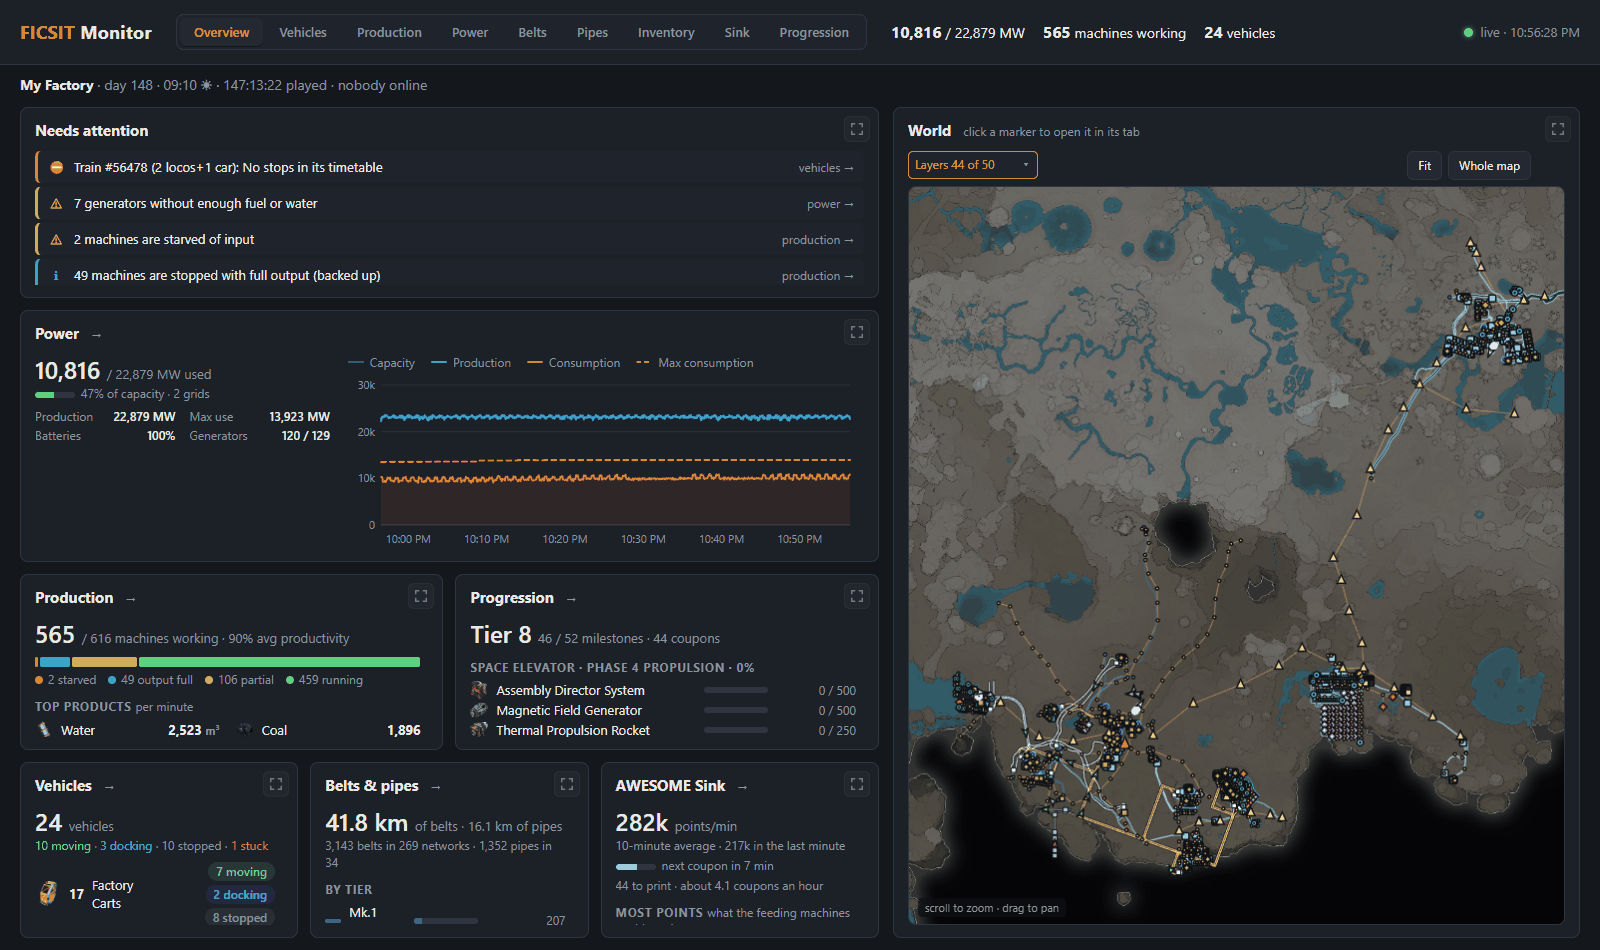
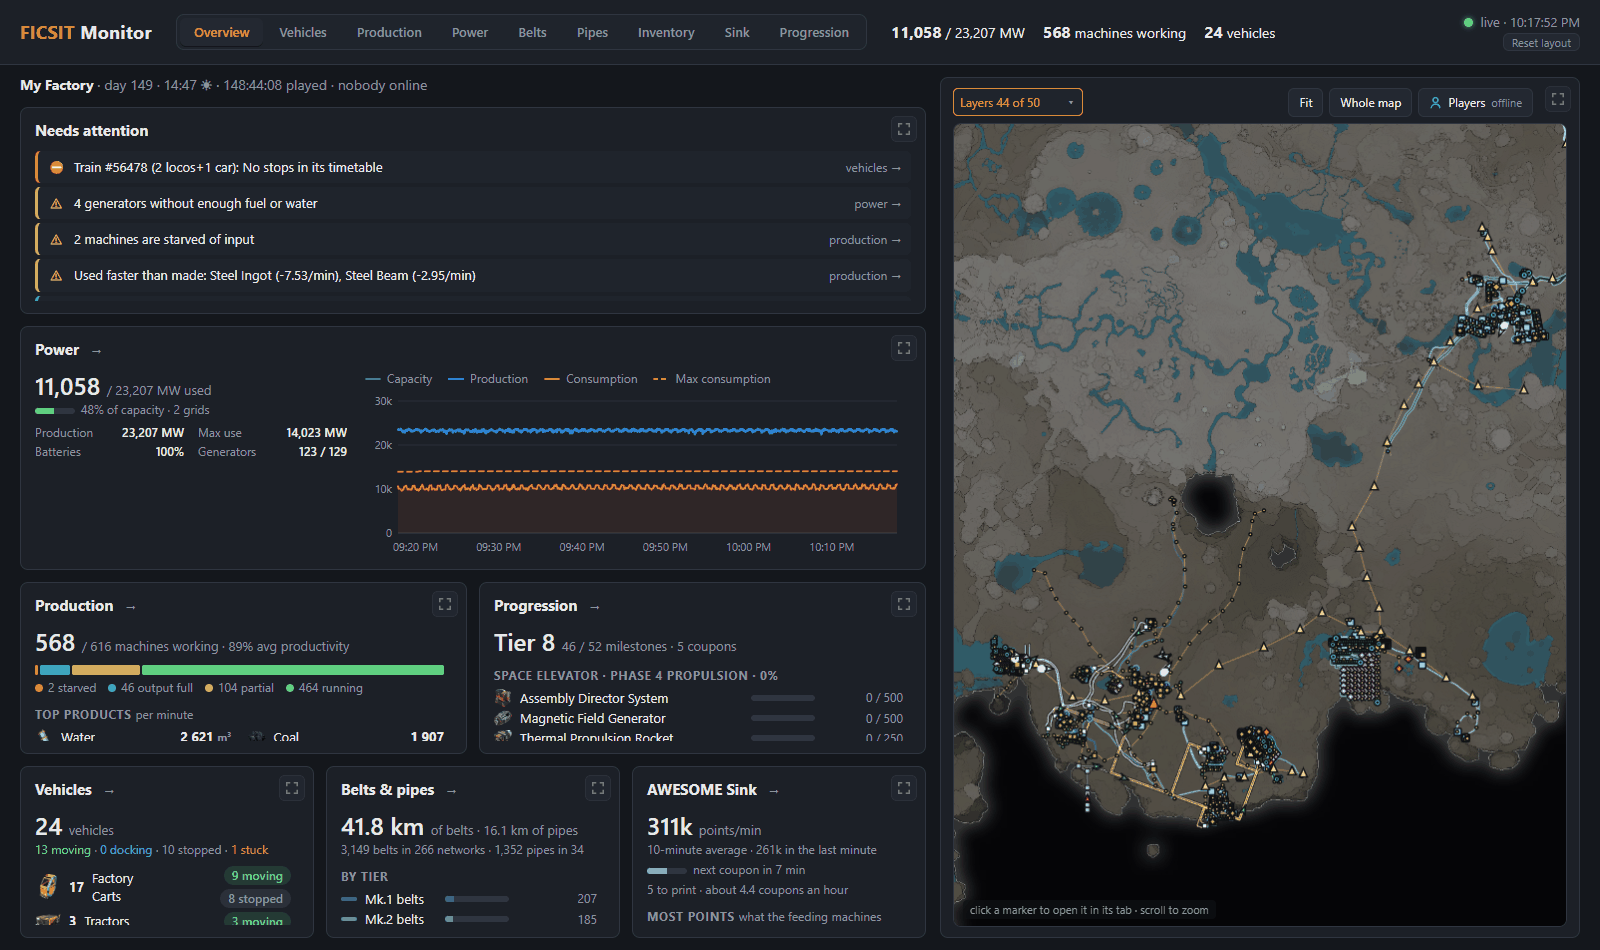
Reset layout button; README: new layout, resizable panels, Players button; new screenshots

diff --git a/index.html b/index.html
@@ -24,7 +24,10 @@
   h1 span { color: var(--accent); }
   .stats { display: flex; gap: 18px; flex-wrap: wrap; }
   .stat b { font-size: 16px; margin-right: 4px; }
-  .conn { margin-left: auto; display: flex; align-items: center; gap: 8px; color: var(--muted); font-size: 13px; }
+  .conn-box { margin-left: auto; display: flex; flex-direction: column; align-items: flex-end; gap: 2px; margin-block: -4px; }
+  button.b.reset-layout { font-size: 11px; line-height: 1; padding: 0 8px; height: 18px; color: var(--muted); }
+  button.b.reset-layout:hover { color: var(--text); }
+  .conn { display: flex; align-items: center; gap: 8px; color: var(--muted); font-size: 13px; }
   .dot { width: 9px; height: 9px; border-radius: 50%; background: var(--muted); }
   .dot.ok { background: var(--ok); box-shadow: 0 0 6px var(--ok); }
   .dot.bad { background: var(--bad); }
@@ -158,7 +161,7 @@
   button.layer.on i { opacity: 1; }
   button.layer .n { color: var(--muted); font-size: 11px; }
 
-  @media (max-width: 700px) { header, main { padding-left: 16px; padding-right: 16px; } .conn { margin-left: 0; } }
+  @media (max-width: 700px) { header, main { padding-left: 16px; padding-right: 16px; } .conn-box { margin-left: 0; align-items: flex-start; } }
 
   /* ---- tabs ---- */
   nav.tabs { display: flex; gap: 2px; background: var(--panel-3); border: 1px solid var(--line); border-radius: 8px; padding: 3px; }
@@ -613,7 +616,10 @@
   <div class="stats" id="statsPipes" data-for="pipes" hidden></div>
   <div class="stats" id="statsInv" data-for="inventory" hidden></div>
   <div class="stats" id="statsSink" data-for="sink" hidden></div>
-  <div class="conn"><span class="dot" id="dot"></span><span id="conn">connecting…</span></div>
+  <div class="conn-box">
+    <div class="conn"><span class="dot" id="dot"></span><span id="conn">connecting…</span></div>
+    <button class="b reset-layout" id="resetLayout" type="button" title="Put every panel and the map back to their default sizes, on every tab">Reset layout</button>
+  </div>
 </header>
 
 <div class="banner" id="banner"></div>

diff --git a/js/resize.js b/js/resize.js
@@ -166,5 +166,14 @@ const Resize = (() => {
     for (const p of parts(c)) { p.style.flex = ""; p.classList.remove("rs-min"); }
   });
 
-  return { scan };
+  // the header's "Reset layout" button: every tab's panels and the map back to their default sizes
+  function reset() {
+    store = {}; save();
+    try { localStorage.removeItem(MAPKEY); } catch {}
+    applyMapW();
+    for (const c of document.querySelectorAll("[data-rs]")) for (const p of parts(c)) { p.style.flex = ""; p.classList.remove("rs-min"); }
+  }
+  document.getElementById("resetLayout")?.addEventListener("click", reset);
+
+  return { scan, reset };
 })();

diff --git a/README.md b/README.md
@@ -6,6 +6,8 @@ A live web dashboard for a Satisfactory world: how the factory is doing at a gla
 
 ## Maps
 
+On a desktop every tab's map sits in the same place on the right, at the same size, and changing tabs keeps the same spot and zoom, so the map doesn't move or flash when you switch. The **Players** button beside Whole map centres on a player; click again for the next one (online players first, then A–Z; right-click goes back).
+
 Every tab's map shares the same parts: a Layers dropdown with **everything** — factory buildings, vehicles and their paths, stations, the power network, belts, pipes, storage, resource nodes, collectibles, hypertubes (tubes, entrances and the open ends rides launch from, with their angle) and players. Each tab starts with only what it's about switched on, plus players (the Overview starts with everything except resource nodes and collectibles); switch anything else on from the menu, and the page only fetches what's switched on. Right-click a map to open the same spot in another tab's map, and hover anything for a detailed popup. Machines, generators, vehicles, stations, storage, belts and pipes, power poles and switches, players, resource nodes and collectibles all show a title, a status badge and labelled rows: what it's doing, rates, contents, its power grid, height and position. Extractors also show what they took out over the last 10 minutes and hour, the most they can at their clock speed, what's unused, and the node's purity. Anything with a problem says why in one line under its title, with numbers: a machine that's "Starved: Coal −25/min (56%)" or has its "Output full", a generator with no fuel (and how much it burns), a train that can't reach its next station (on a different track, or check signals), a fuse that tripped (what the grid wants vs makes), full storage, a pump past its head lift, batteries draining.
 
 ![Hover popup](docs/screenshots/hover.png)
@@ -14,7 +16,7 @@ Every tab's map shares the same parts: a Layers dropdown with **everything** —
 
 ### Overview (home)
 - **Needs attention**: an overloaded grid or tripped fuse, max consumption over capacity, generators out of fuel or water, starved machines, items used faster than they're made, stuck vehicles (derailed, station unreachable, …), unconnected belt/pipe ends, AWESOME Sinks without power, milestones ready to unlock, coupons to spend. Each links to the tab that explains it.
-- **Summary cards**: power across the top (key figures and the four-line power chart), then production (status mix, top products, shortfalls), progression (Space Elevator and HUB parts), vehicles (per type, stuck ones by name), belts & pipes (totals by tier, head lift problems) and the AWESOME Sink (points per minute, time to the next coupon, the items earning the most).
+- **Summary cards** in rows: power (key figures and the four-line power chart); production (status mix, top products, shortfalls) and progression (Space Elevator and HUB parts); vehicles (per type, stuck ones by name), belts & pipes (totals by tier, head lift problems) and the AWESOME Sink (points per minute, time to the next coupon, the items earning the most).
 - **World map** of machines, generators, vehicles, players, the HUB, the Space Elevator, AWESOME Sinks, every belt and pipe, the power network (lines, poles, wall outlets, towers, switches, power storage), every storage container, fluid buffer and Dimensional Depot uploader, hypertubes, roads, rail, drone routes and truck / train stations, with a categorized Layers dropdown.
 
 ### Vehicles
@@ -26,6 +28,7 @@ Every tab's map shares the same parts: a Layers dropdown with **everything** —
 ![Production](docs/screenshots/production.png)
 - **Items**: producing, consuming and net per minute for every item (generators' fuel and water included), capacity and how much of it is in use. Click an item to see its history and highlight the machines that make (blue) and use (orange) it, in the table and on the map.
 - **Machines**: status (running, partial, starved, output full, paused, no power), productivity, input and output, clock speed, power shards, Somersloops and power draw. A filter under the columns (building, recipe, status, productivity, inputs, outputs, clock); click a row to find the machine on the map.
+- **Item details** under the two tables: the picked item's history, the machines that make and use it, and its recipes (a one-line strip until you pick an item).
 - The summary tiles are shortcuts: click "5 starved" to see those five.
 
 ### Power
@@ -35,7 +38,8 @@ Every tab's map shares the same parts: a Layers dropdown with **everything** —
 - **Power & batteries**: the power graph with a stored-charge graph (MWh) under it on the same time axis, beside a battery readout like the in-game Power Storage panel: charge gauge and %, time until full (or empty while draining), stored charge (e.g. 3,300 / 3,300 MWh) and charge rate.
 - **Generators & switches** in one table, with a filter under every column: each generator's output, fuel and water; each power switch's state, priority group (Undefined turns off first, then 8 … 1), what it's fed from and what it controls. Hover a switch to see its two sides on the map (supply blue, controlled orange).
 - **Grid layout**: each grid's sections, following the switches out from the generators.
-- Generation by generator type and consumption by building type, beside a map of the power network: lines, poles, wall outlets, towers, switches and power storage, with the selected grid bright and the rest faded.
+- Generation by generator type and consumption by building type, beside the grid layout.
+- A map of the power network: lines, poles, wall outlets, towers, switches and power storage, with the selected grid bright and the rest faded.
 
 ### Belts
 ![Belts](docs/screenshots/belts.png)
@@ -43,7 +47,7 @@ Every tab's map shares the same parts: a Layers dropdown with **everything** —
 - Totals: belts, lifts, splitters and mergers, unconnected ends, slots used across containers, depot items at their limit, and full storage (click those to list them).
 - **Belt networks table**: what each network feeds (production, power), the buildings it connects (storage included), its length, pieces, lifts, tier mix and bottleneck (the slowest tier, lifts included), and open ends. **Storage table**: type, contents, slots used, amount stored and the belts into it.
 - The two are **linked**: click a network (in the table or on the map) and the storage it reaches is pinned to the top of the Storage table and ringed on the map; click a storage and the belts into it are pinned and drawn on the map. Every column of both tables has a filter, and the map follows them.
-- Under the map: belt and lift pieces by tier, and every **Dimensional Depot** item against its limit (an uploader counts as full only when the depot can't take any more of its item).
+- Under the tables: belt and lift pieces by tier, and every **Dimensional Depot** item against its limit (an uploader counts as full only when the depot can't take any more of its item).
 - Lifts are drawn as small squares in their belt tier's colour with a ↕, on top of the belts.
 
 ### Pipes
@@ -51,7 +55,7 @@ Every tab's map shares the same parts: a Layers dropdown with **everything** —
 - Every pipe grouped into networks, and every **fluid buffer** (Fluid Buffer, Industrial Fluid Buffer), linked the same way as on the Belts tab.
 - Totals: pipes and junctions, pumps and valves (how many are pumping, their power), head lift problems, unconnected ends, m³ stored across buffers, and full buffers.
 - **Pipe networks table**: the fluid in each, what it feeds, what it connects, length, pieces, tiers, bottleneck, open ends and head lift. **Fluid buffers table**: contents, how full, fill / drain rate and the pipes into it.
-- Under the map: pipe pieces by tier, and every **pump** with its head-lift gauge (how high it's pushing now, against its design) and flow — click one to find it on the map.
+- Under the tables: pipe pieces by tier, and every **pump** with its head-lift gauge (how high it's pushing now, against its design) and flow — click one to find it on the map.
 - **Head lift**: liquids only climb so high above whatever pushes them — a pump (Mk.1 20 m, Mk.2 50 m), an extractor or machine output (10 m) or a fluid buffer (8 / 12 m); a little past that the flow drops, a few metres more and it stops. Head lift only passes through completely filled pipes, and a fluid buffer counts as one: a pump's push carries through a buffer once it's full; while it fills, past it only the buffer's own head lift counts, in proportion to how full it is. `server.py` splits the pipes at pumps and filling buffers into runs, finds what pushes each run and how high that reaches, and flags pipe pieces above it: a little over = **near limit** (yellow), past the point where flow stops = **too high** (red). The live contents of those pipes then say how sure that is (they stay empty while the rest of the run has fluid = almost certainly head lift; full anyway = not flagged). Flagged pipes are drawn dashed red / yellow with a ⚠ at the highest point (popup: what pushes it, from what height, how far over); the tile and the Head lift column list them, and the Overview shows them under what needs attention. Gases need no head lift and are skipped.
 - Hover a belt, pipe, lift, pump or storage on any map to see it; the maps have one layer per kind of storage building.
 - `server.py` works the networks out by following what each belt, lift and pipe end is plugged into (FRM's `ConnectedTo0` / `ConnectedTo1`), through splitters/mergers, junctions/pumps/valves and floor holes. With an FRM build that doesn't report those, it falls back to geometry (ends that meet, each lift joined to the nearest belt end at its height). A network counts as production or power if it reaches a machine or a generator. It doesn't know what's on a belt or how full it is.
@@ -79,7 +83,8 @@ Every tab's map shares the same parts: a Layers dropdown with **everything** —
 - Every map has a **Layers** dropdown, X/Y coordinates under the cursor, and shows players (online and offline) as arrows pointing the way they face. **Right-click** a map to open the same spot, at the same zoom, in another tab's map. The Production map shows the belts and pipes of production lines; the Overview map shows them all, the Belts and Pipes maps one each.
 - Every table has its title and row count on the left, **Clear filters** on the right, and filters under the column headings.
 - Every panel has a **full-screen** button (Esc to close). Table columns can be resized (double-click an edge to fit) and sorted.
-- On a desktop browser each tab fits one screen; on phones the panels stack.
+- On a desktop browser each tab fits one screen, with the map on the right; on phones the panels stack and the map comes last.
+- **Resize anything** (desktop): drag the gap between two panels to give one more room, and drag the map's left edge to make it wider (one width for every tab). Pull a gap further and the panels after it squeeze down to their titles one by one; pull back and they open again in reverse. The top tiles resize sideways. Double-click a gap to put that group back, or use **Reset layout** under the clock in the header for everything. Sizes are remembered in your browser.
 - `server.py` records power (battery charge and capacity included), production and sink points history (every 5 s / 15 s, 24 hours kept, saved to `history.json`), so charts have data from before the page was opened. It works out the belt and pipe networks every minute while a page shows them (every 5 minutes for a page in the background, not at all when nobody is looking).
 
 ## Requirements
@@ -115,4 +120,4 @@ Options:
   - a page in the background (another browser tab, a minimised window) polls at most once a minute and catches up when it's shown again;
   - `server.py` caches replies (1 s; 4 s for the big ones), so several open pages and the history recorder share requests, and the Overview reuses the recorder's machine snapshot.
   With one page open this costs FRM about 2–3 s of work a minute; the biggest single request (`getBelts`, a few hundred ms on a large factory) runs once a minute only while belts and pipes are on screen.
-- Code: `index.html` (page, Vehicles tab), `js/poll.js` (polling), `js/charts.js` (charts, tables, dropdowns), `js/map.js` (the shared map), and one file per other tab.
+- Code: `index.html` (page, Vehicles tab), `js/poll.js` (polling), `js/charts.js` (charts, tables, dropdowns), `js/map.js` (the shared map), `js/resize.js` (resizable panels), and one file per other tab.
